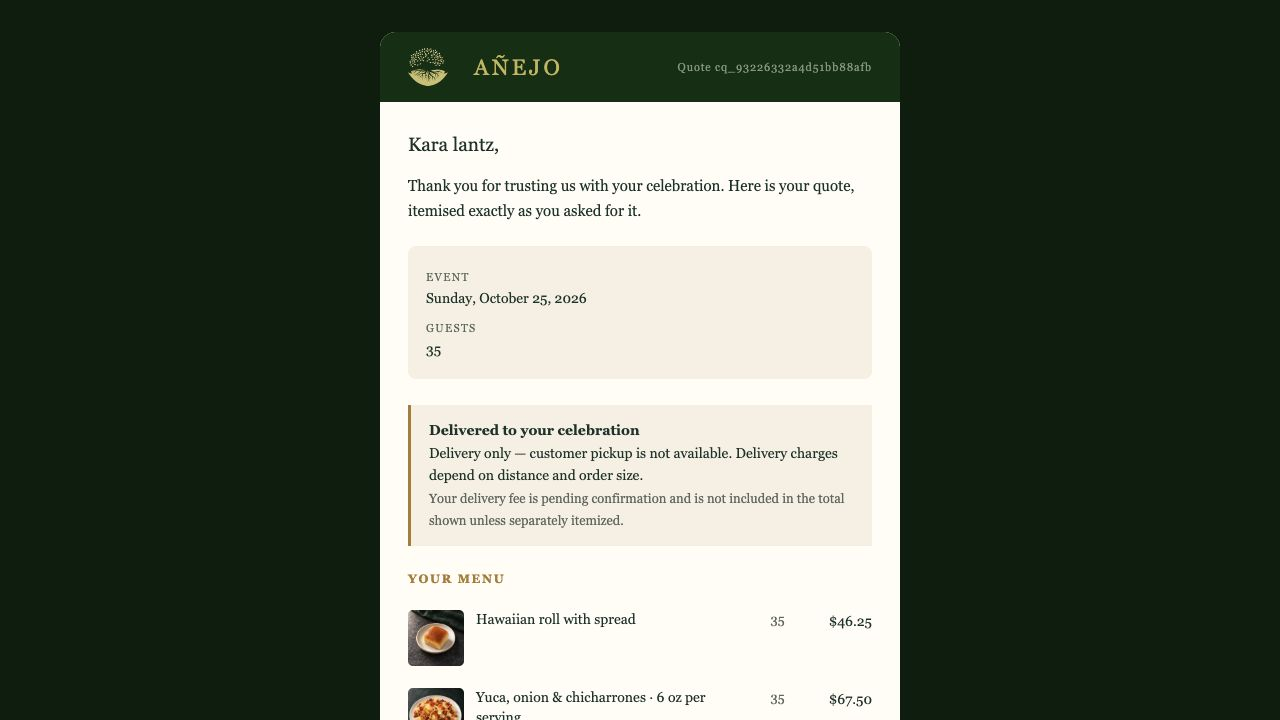
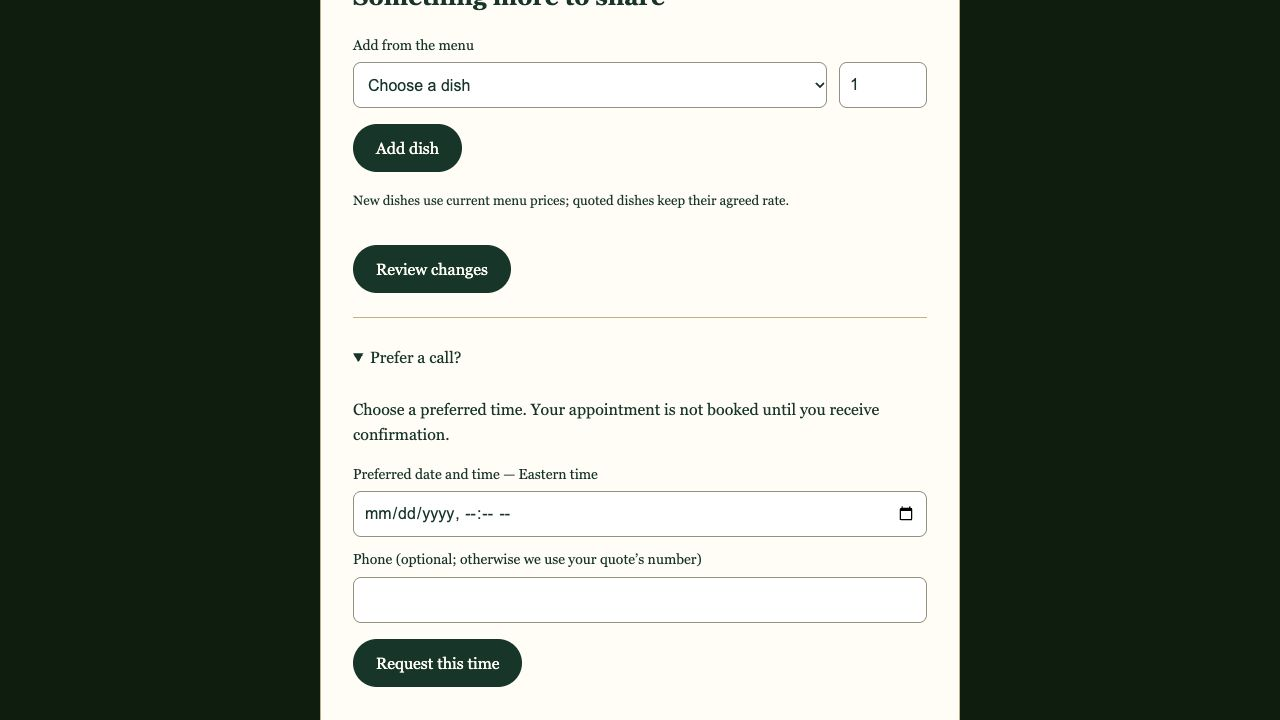
Replace identifying quote screenshot and record privacy follow-up [skip deploy]

Changed region(s): [[0.25, 0.0, 0.75, 1.0]]

diff --git a/docs/CUSTOMER_QUOTE_SELF_SERVICE_2026-10-17.md b/docs/CUSTOMER_QUOTE_SELF_SERVICE_2026-10-17.md
@@ -45,3 +45,7 @@ Follow-up validation:3,802localtests pass/0fail/0skip;lint0errors/10existingwarn
 - Customer templates: callback-confirmation-preview.png and callback-reminder-preview.png are rendered fictional examples, not sent emails or booked appointments.
 - Rollback: revert application release through reviewed Git path; leave additive0151/0152 tables/history intact. Disabling booking/messages halts new effects; do not delete durable uncertain-job receipts or reservations.
 - Live acceptance caught an old agenda script in an existing browser session. PR213 versions only that script URL. Verification remains pending until the same live browser visibly displays the new readiness message.
+
+
+## Evidence privacy correction
+Repository visibility verified public during final review. The original live-quote-images.png screenshot included the customer name and quote ID (no email/phone/access token visible). Current file replaced with the non-identifying editor screenshot; it is no longer photo evidence. Exact photo mapping remains covered by synthetic email rendering and live read-only observation. Older Git history may retain the original screenshot. Dayan asked to authorize coordinated history cleanup; no claim of historical removal. Do not publish more customer-identifying screenshots.
